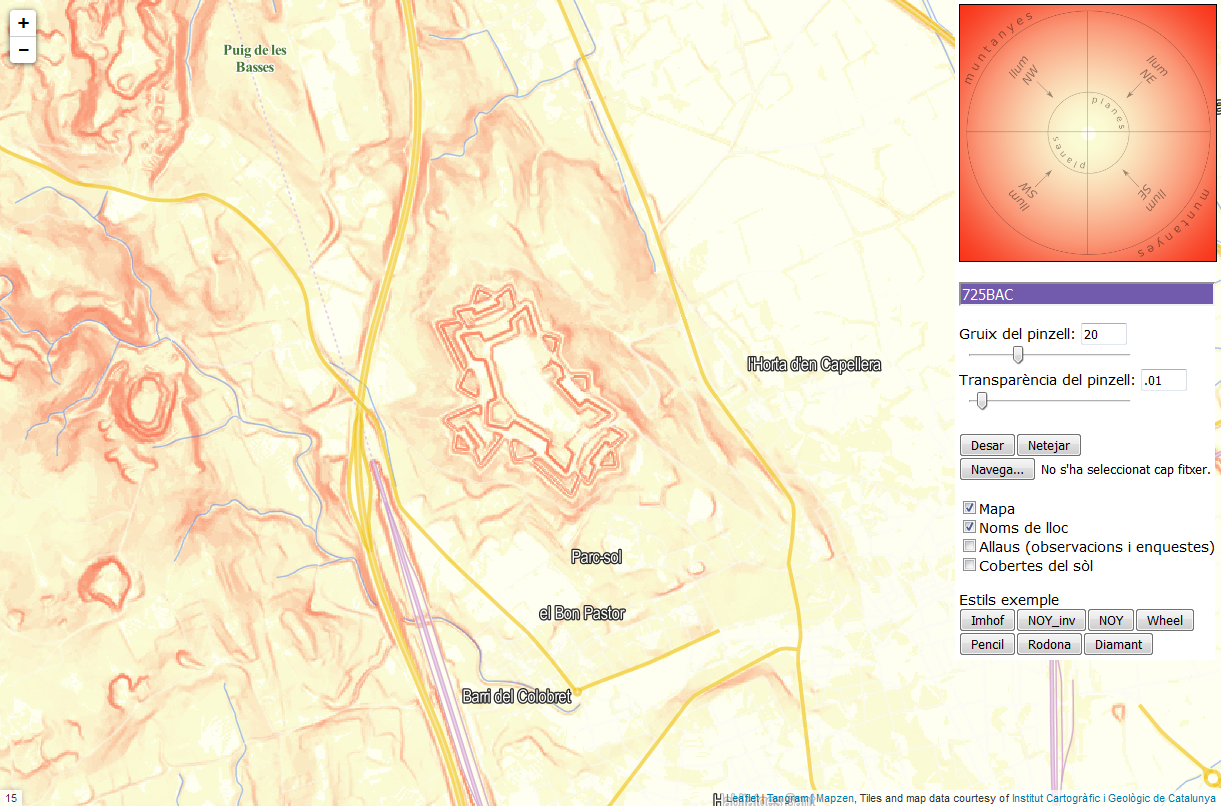
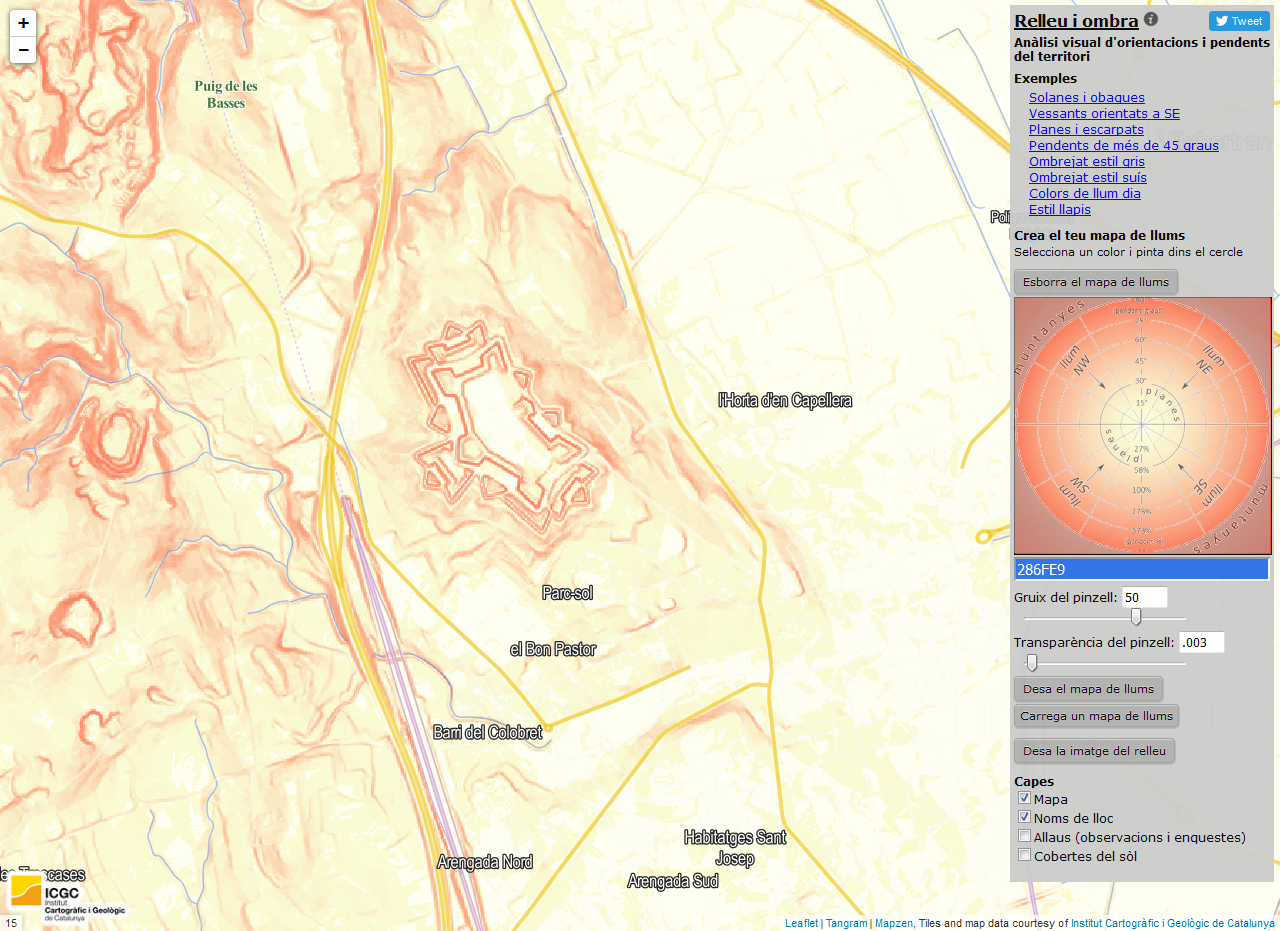
cambios readme e imagen de captura

diff --git a/README.md b/README.md
@@ -1,4 +1,4 @@
-# llums i ombres
+# relleu i ombra
 
 An interactive terrain-lighting spheremap painter for [Tangram](http://github.com/tangrams/tangram), using a normal map created from the 5x5 m DTM of [ICGC](http://www.icgc.cat) (Institut Cartogràfic i Geològic de Catalunya)
 
